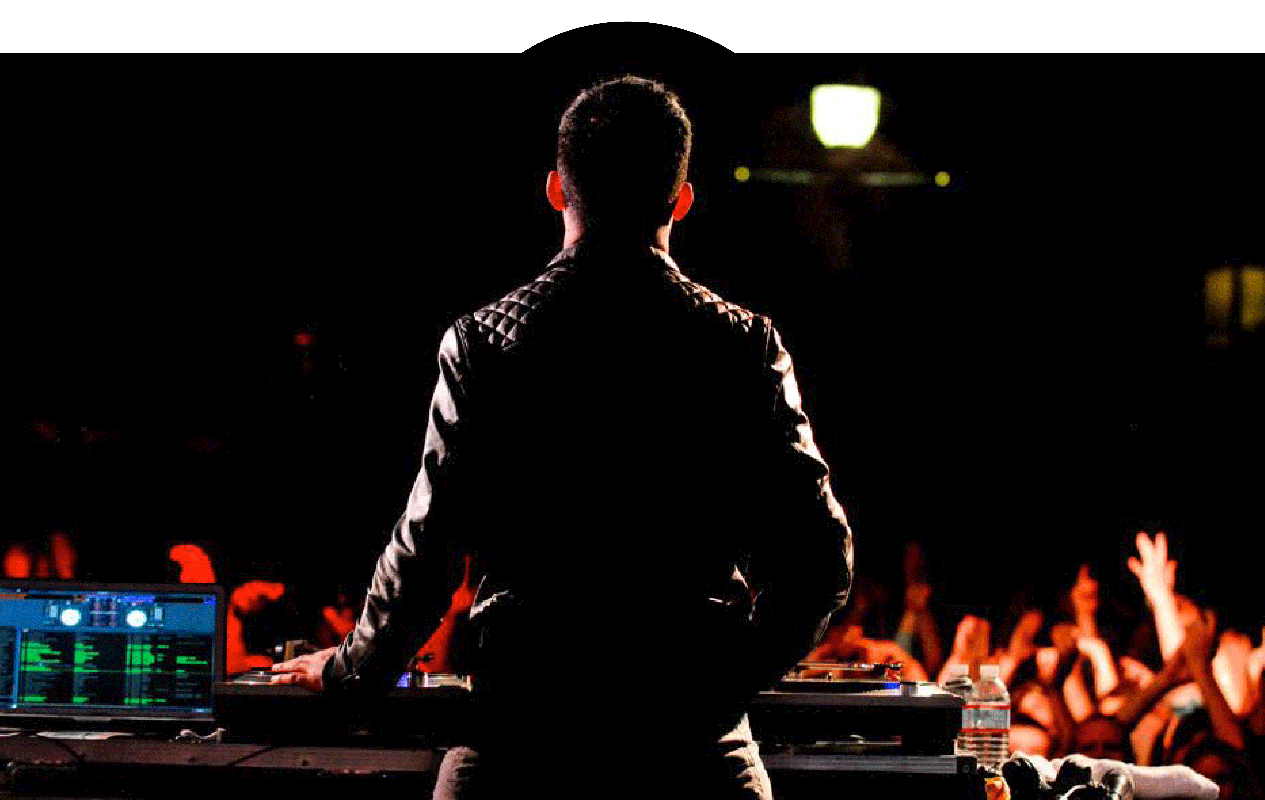
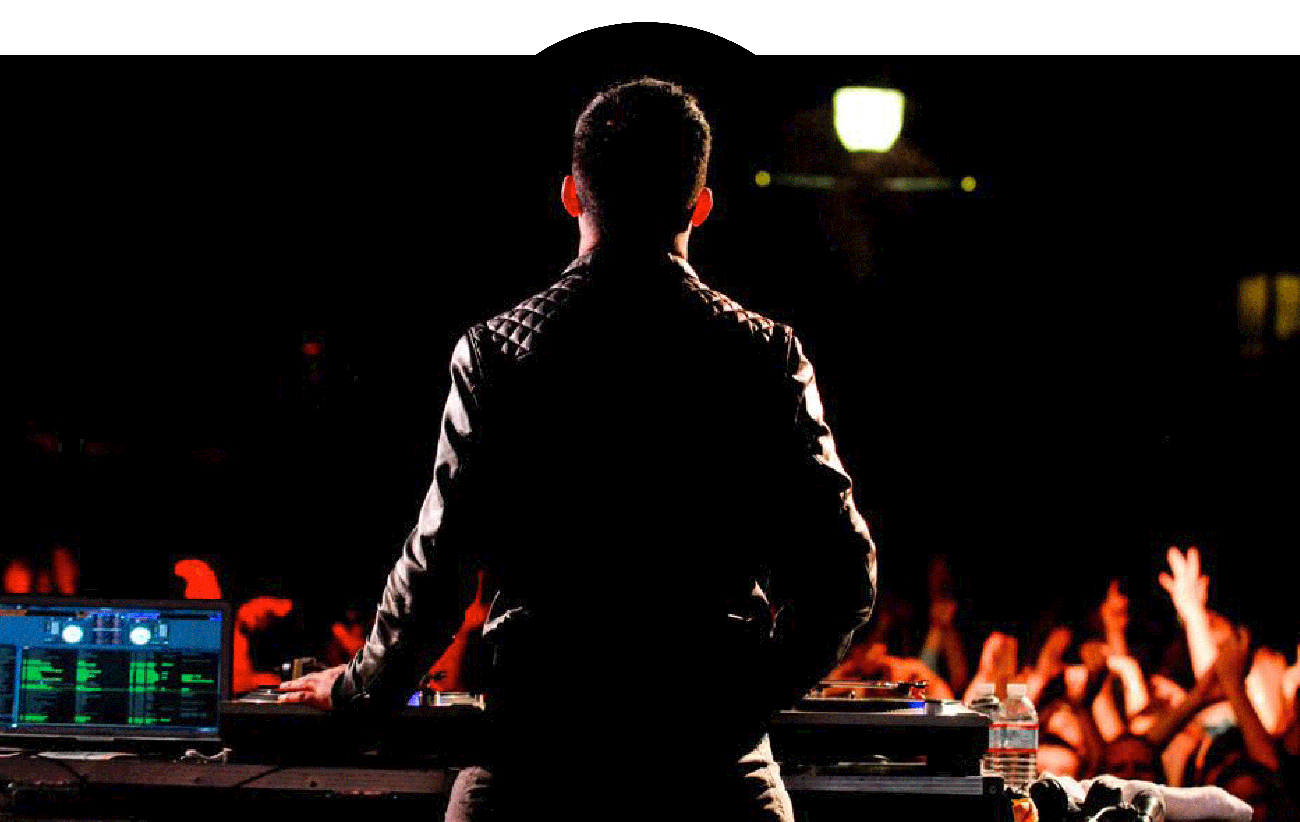
Made changes from WVMF. Added new section for extra activities

diff --git a/styles.css b/styles.css
@@ -3,6 +3,12 @@ body {
 	font-family: sans-serif;
 	color:white;
 	width:100%;
+	margin-right:-10px;
+}
+
+#fullpagewrap {
+	width:100%;
+
 }
 
 /*
@@ -12,7 +18,7 @@ Base Header Styles
 */
 header {
 	position:fixed;
-	margin:0 -10px;
+	margin:0 10px 0 -10px;
 	width:100%;
 }
 
@@ -49,7 +55,7 @@ nav a:hover {
 }
 
 nav img {
-	padding: 0 25px;
+	padding: 0;
 	top: 55px;
 	width: 98px;
 	height: 80px;
@@ -66,7 +72,7 @@ nav ul {
 
 nav ul li {
 	display: inline-block;
-	padding:5px 10px 5px 10px;
+	padding:5px 0;
 	width:100px;
 	font-weight: bold;
 }
@@ -78,12 +84,10 @@ Footer Styles
 */
 footer{
 	color:#000044;
-	width:100%;
-	margin: 0 -10px;
-	padding-right:20px;
 	position:relative;
 	background: white;
-	margin-bottom: -40px;
+	margin:0 0 -40px 0;
+	width:100%;
 }
 
 footer a {
@@ -97,12 +101,12 @@ footer a:hover {
 
 footer ul {
 	list-style: none;
-	padding:12px 10px 0 10px;
+	padding:0;
 }
 
 footer ul li {
 	display: inline-block;
-	padding:0 7px;
+	padding:0;
 	font-weight: bold;
 }
 
@@ -111,7 +115,7 @@ footer ul li {
 	width:100px;
 	position: relative;
 	top:-40px;
-	padding-left: 80px;
+	/*padding-left: 80px;*/
 	z-index: 10000;
 }
 
@@ -126,14 +130,15 @@ footer img {
 
 .footerIcons {
 	width:600px;
-	float:right;
-	text-align: right;
+	float:left;
+	margin:10px 0 0 10px;
 }
 
 .footerIcons img {
 	width:auto;
 	height:auto;
-	padding:15px 10px 0 10px;
+	padding:0;
+	margin-right:20px;
 }
 /*
 ------------------------------------------
@@ -166,6 +171,7 @@ header #container {
 }
 .layer:nth-child(2) {
   opacity: 1;
+  margin-top:50px;
 }
 .layer:nth-child(3) {
   opacity: 1;
@@ -187,10 +193,10 @@ Artist Home Section Styles
 */
 
 .artists {
-	background:url('images/Atrak-cutout-narrow.png');
+	background:url('images/Atrak-cutout-full.png');
 	background-size:cover;
 	height:800px;
-	margin:750px -10px 0 -10px;
+	margin:600px 0 0 -10px;
 	z-index: 5000;
 	position: relative;
 	border-bottom:8px solid white;
@@ -246,8 +252,15 @@ Artist Home Section Styles
 	position: relative;
 	width: 40%;
 	height: 65%;
-	background-color: rgba(128,128,128, .2);
+	background-color: rgba(0,0,0, .8);
 	border-radius:20px 0 0 20px;
+	border-top:4px solid white;
+	border-bottom:4px solid white;
+	border-left:4px solid white;
+}
+
+.profiles div:first-of-type {
+	opacity: 1;
 }
 
 .profiles div {
@@ -432,6 +445,7 @@ section.social {
 	height: 400px;
 	z-index: 5000;
 	border-bottom: 8px solid white;
+	width:100%;
 }
 
 section.social div {
@@ -440,7 +454,7 @@ section.social div {
 
 .leftSection {
 	height: 400px;
-	width:40%;
+	width:41.53%;
 	border-right:8px solid white;
 	float:left;
 	display: block;
@@ -480,7 +494,7 @@ section.social div {
 
 .twitter {
 	height: 180px;
-	width:28%;
+	width:27.5%;
 	border-right:8px solid white;
   position: relative;
 	float:left;
@@ -513,8 +527,8 @@ section.social div {
 }
 
 .facebook {
-	height: 212px;
-	width:58%;
+	height: 213px;
+	width:57.99%;
 	float:left;
 	background:rgba(255,255,255,.2);
 	border-top: 8px solid white;
@@ -536,7 +550,6 @@ Archives Home Section Styles
 ------------------------------------------
 */
 section.about {
-	display: none;
 	background:#000;
 	background: url('images/Singer.jpg');
 	background-size:cover;
@@ -545,13 +558,14 @@ section.about {
 	height: 600px;
 	z-index: 5000;
 	border-bottom: 8px solid white;
+	width: 100%;
 }
 
 .aTxt {
 	font-size: 50pt;
 	font-weight: 700;
 	width:400px;
-	margin:150px 100px -10px 0;
+	margin:75px 100px 0px 0;
 	text-align: center;
 	line-height: 35px;
 	float:right;
@@ -574,6 +588,59 @@ section.about {
 	border-bottom:1px solid white;
 }
 
+.pressRelease {
+	width:50%;
+	height:500px;
+	position: relative;
+	float:left;
+	margin:50px 0 0 0;
+	background-color: rgba(0,0,0, .6 );
+	border-radius:0 20px 20px 0;
+	border-top:4px solid white;
+	border-bottom:4px solid white;
+	border-right:4px solid white;
+}
+
+.pressRelease h3 {
+	margin-left:40px;
+}
+
+.pressRelease h4 {
+	margin-left:40px;
+	font-size:11pt;
+}
+
+.pressRelease h4 a {
+	color:white;
+}
+
+.pressRelease h4 a:hover {
+	color:blue;
+}
+
+.pressRelease h6 {
+	margin-left:40px;
+	margin-top:-15px;
+}
+
+.pressRelease p {
+	text-transform: none;
+	font-size: 11pt;
+	margin-left:40px;
+	margin-right:40px;
+	font-weight: normal;
+}
+
+.pressRelease ul {
+	text-transform: none;
+	font-size: 10pt;
+	margin-left:40px;
+	margin-right:40px;
+	font-weight: normal;
+}
+
+
+
 /*
 ---------------------------------------------
 Directions Section
@@ -585,6 +652,8 @@ section.directions {
 	height: 600px;
 	position: relative;
 	z-index: 5000;
-	margin: 0 -10px;
+	margin: 0 0 0 -10px;
 	margin-bottom: 8px solid white;
+	background-size: cover;
+	width: 100%;
 }

diff --git a/index.html b/index.html
@@ -19,6 +19,7 @@
 </head>
 
 <body>
+	<div id="fullpagewrap">
 	<nav>
 		<ul>
 			<li><a href="#artists">Artists</a></li>
@@ -192,15 +193,46 @@
 	</section>
 
 	<section class="about" id="about">
+		<div class="pressRelease">
+			<h3>Press Release 2014</h3>
+			<h6>Date: May 10th, 2014 // 12pm-1am</h6>
+			
+			<p>The Willamette Valley Music Festival, formerly known as the Willamette Valley Folk Festival, is entering its 44th year of presenting a diverse array of music from the local/regional area. Hosted by the UO Cultural Forum, WVMF is a product of student creativity, planning and collaboration. Historically, the event has gathered 2,000-3,000 people with an eclectic mix of music and activities. Highlighted activities this year include: </p>
+			
+			<ul>
+				<li>Three stages with professional sound and lighting.</li>
+				<li>Coordination with ASUO Street Faire to bring a diverse audience to campus.</li>
+				<li>12 national and local bands </li>
+				<li>Cultural workshops in dance, drumming, and craft-making. </li>
+				<li>Additional events such as the Zany Zoo petting zoo and Think.Play videogame tournament. </li>
+			</ul>
+
+			<h3>Mission Statement</h3>
+
+			<p>The Willamette Valley Music Festival is an exciting annual event held on the UO campus during the ASUO Spring Street Faire. The festival is planned by student coordinators for the students of UO and the community at large. WVMF features three stages, live music and cultural workshops. We focus on sustainability to produce a zero waste event. The WVMF is dedicated to enriching the cultural experience of Oregonians by showcasing new artists and ideas. </p>
+
+			<h4>For more information please contact Taylor Jones:<br />
+				<a href="mailto:wvmf@uoregon.edu">wvmf@uoregon.edu</a> / 831-277-9762
+			</h4>
+
+		</div>
+
 		<div class="aTxt">
 			About<br />
 			<span class="smTxtMin">Information About The Festival</span>
 		</div>
+
+
+	</section>
+
+	<section class="activities" id="activities">
+		
 	</section>
 
 	<section class="directions" id="directions">
     	<div id="map-canvas" style="height: 100%;">
 	</section>
+
 
 	<footer>
 		<div class="homeImg">
@@ -223,5 +255,5 @@
 	<script src="//ajax.googleapis.com/ajax/libs/jquery/1.11.0/jquery.min.js"></script>
 	<script>window.jQuery || document.write('<script src="js/vendor/jquery/jquery-1.11.0.min.js"><\/script>')</script>
 	<script src="js/script.js"></script>
-
+	</div>
 </body>

diff --git a/js/script.js b/js/script.js
@@ -2,6 +2,7 @@ $(document).ready(function() {
   // Bind click listeners to band list
 	$('#bandlist a').click(function() {
 		console.log('click!');
+
 		// hide anything else in there
 		$('.profiles div').animate({'opacity':'0'});
 
@@ -22,7 +23,7 @@ function mapInit() {
   var map = new google.maps.Map(document.getElementById('map-canvas'), mapOptions);
 
   var mainStage = new google.maps.Marker({
-    position: new google.maps.LatLng(44.045097,-123.077628),
+    position: new google.maps.LatLng(44.04572,-123.077608),
     map: map,
     title:"Main Stage"
 	});
